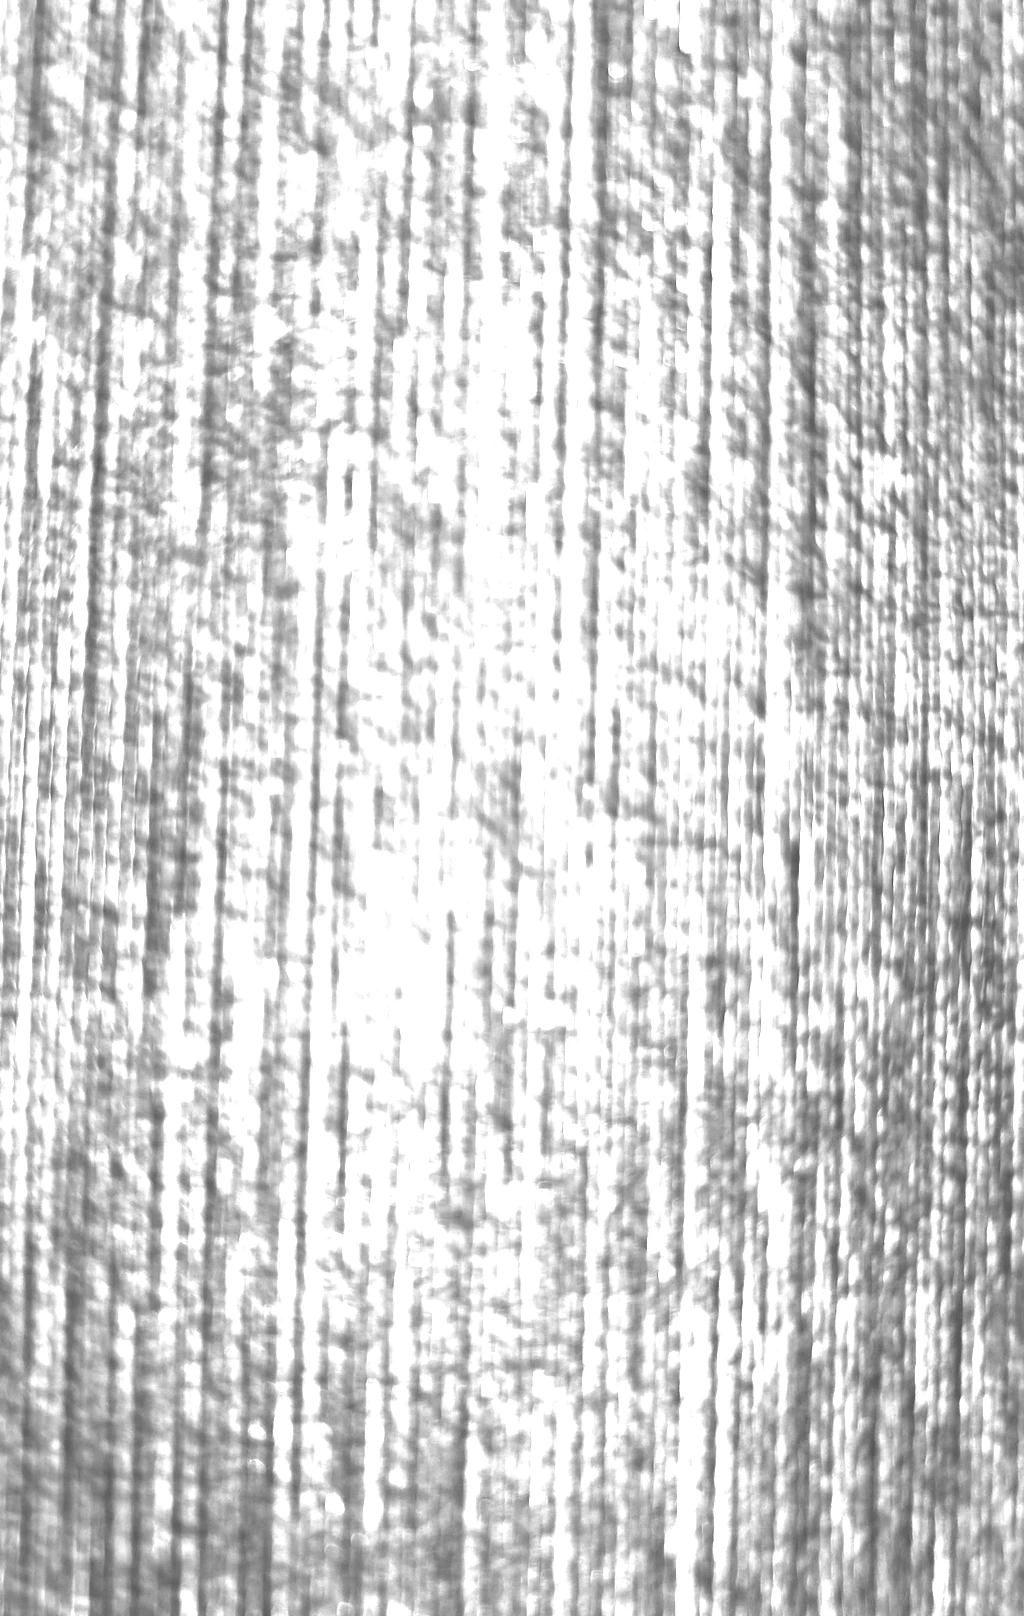
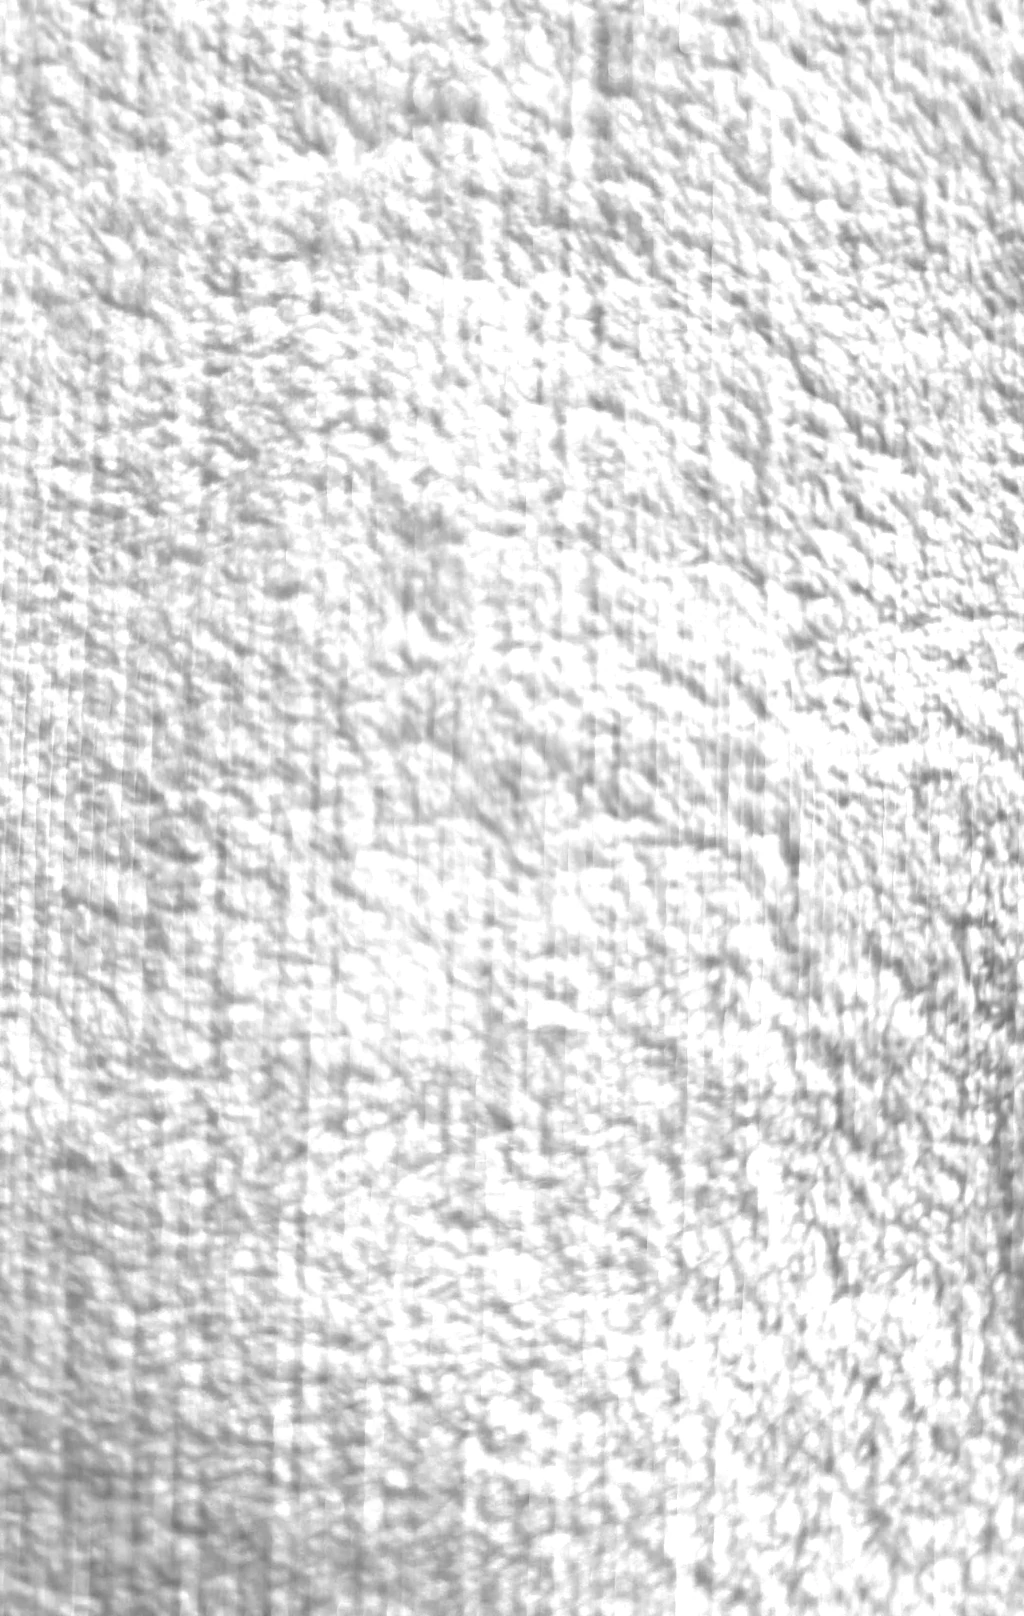
feat[3d]: book_1/book_2 텍스처 비율 조정 및 사서별 테마 색상 3D 서재 반영 (#98)

diff --git a/app/store/bookVisuals.js b/app/store/bookVisuals.js
@@ -9,17 +9,9 @@
  * 어디서 보든 같은 색/두께/높이로 안정적으로 렌더링되게 한다.
  */
 
-const STORAGE_KEY = 'myReadingRoom.bookVisuals';
+import { getColorPresets } from '../features/register/ocrUtils';
 
-// RegisterBook / ocrUtils와 동일한 색상 팔레트
-const COLOR_PRESETS = [
-  { spine: '#c96b32', cover: '#e8944a' },
-  { spine: '#8b4513', cover: '#b5651d' },
-  { spine: '#a0522d', cover: '#cd853f' },
-  { spine: '#d4763e', cover: '#f2a365' },
-  { spine: '#6b3a2a', cover: '#8c5a3c' },
-  { spine: '#bf7830', cover: '#e0a050' },
-];
+const STORAGE_KEY = 'myReadingRoom.bookVisuals';
 
 const THICKNESS_OPTIONS = [0.16, 0.22, 0.3];
 
@@ -51,10 +43,13 @@ function hashString(str) {
   return Math.abs(hash);
 }
 
-function deterministicVisual(bookId) {
+function deterministicVisual(bookId, librarianId = 'cat') {
   const h = hashString(bookId);
-  const preset = COLOR_PRESETS[h % COLOR_PRESETS.length];
+  const presets = getColorPresets(librarianId);
+  const colorIdx = h % presets.length;
+  const preset = presets[colorIdx];
   return {
+    colorIdx,
     spineColor: preset.spine,
     coverColor: preset.cover,
     thickness: THICKNESS_OPTIONS[h % THICKNESS_OPTIONS.length],
@@ -65,13 +60,14 @@ function deterministicVisual(bookId) {
 /**
  * bookId의 시각 정보를 반환. 저장된 값이 없으면 결정론적 기본값을 만들어 저장 후 반환.
  * @param {string|number} bookId
- * @returns {{spineColor: string, coverColor: string, thickness: number, heightFactor: number}}
+ * @param {string} [librarianId='cat']
+ * @returns {{colorIdx?: number, spineColor: string, coverColor: string, thickness: number, heightFactor: number}}
  */
-export function getVisual(bookId) {
+export function getVisual(bookId, librarianId = 'cat') {
   const key = String(bookId);
   const map = loadAll();
   if (map[key]) return map[key];
-  const visual = deterministicVisual(key);
+  const visual = deterministicVisual(key, librarianId);
   map[key] = visual;
   saveAll(map);
   return visual;
@@ -80,13 +76,14 @@ export function getVisual(bookId) {
 /**
  * 사용자가 고른 색/두께를 저장(등록 시 사용). heightFactor는 유지하거나 결정론적으로 생성.
  * @param {string|number} bookId
- * @param {{spineColor?: string, coverColor?: string, thickness?: number}} patch
+ * @param {{colorIdx?: number, spineColor?: string, coverColor?: string, thickness?: number}} patch
  */
-export function setVisual(bookId, { spineColor, coverColor, thickness } = {}) {
+export function setVisual(bookId, { colorIdx, spineColor, coverColor, thickness } = {}) {
   const key = String(bookId);
   const map = loadAll();
   const base = map[key] || deterministicVisual(key);
   map[key] = {
+    colorIdx: colorIdx !== undefined ? colorIdx : base.colorIdx,
     spineColor: spineColor ?? base.spineColor,
     coverColor: coverColor ?? base.coverColor,
     thickness: thickness ?? base.thickness,

diff --git a/app/features/room/LibraryScene.jsx b/app/features/room/LibraryScene.jsx
@@ -20,6 +20,8 @@ import {
   placeBooks,
   makePreviewBooks,
 } from './shelfLayout';
+import { getColorPresets } from '../register/ocrUtils';
+import { getColorIndex } from './bookExtractor';
 
 const isDev = import.meta.env.DEV;
 const CALIB_KEY_PREFIX = 'myReadingRoom.calibration';
@@ -374,7 +376,20 @@ export default function LibraryScene() {
 
   // 캘리브레이션 중이면 작업용 설정, 아니면 해당 사서의 배포용 기본 설정
   const activeConfig = calibrating ? workingConfig : { camera: getDefaultCamera(librarianId), shelves: getDefaultShelves(librarianId) };
-  const sourceBooks = calibrating ? makePreviewBooks(previewCount) : books;
+  const librarianPresets = useMemo(() => getColorPresets(librarianId), [librarianId]);
+  const rawSourceBooks = calibrating ? makePreviewBooks(previewCount, librarianId) : books;
+  const sourceBooks = useMemo(() => {
+    return rawSourceBooks.map((b) => {
+      const colorIdx = typeof b.colorIdx === 'number' ? b.colorIdx : getColorIndex(b.title || b.id || '');
+      const preset = librarianPresets[colorIdx % librarianPresets.length];
+      return {
+        ...b,
+        colorIdx,
+        spineColor: preset.spine,
+        coverColor: preset.cover,
+      };
+    });
+  }, [rawSourceBooks, librarianPresets]);
   const placements = useMemo(() => placeBooks(sourceBooks, activeConfig.shelves), [sourceBooks, activeConfig.shelves]);
   const { camera } = activeConfig;
   const activeShelf = workingConfig.shelves[activeIdx] || workingConfig.shelves[0];
@@ -813,7 +828,7 @@ export default function LibraryScene() {
           onSelectShelf={(idx) => setActiveMobileShelfIdx(idx)}
           onClose={() => setActiveMobileShelfIdx(null)}
           placements={placements}
-          allBooks={books}
+          allBooks={sourceBooks}
           onOpenBookDetail={(book) => setSelectedId(book.id || book.bookId)}
         />
       )}

diff --git a/app/features/room/shelfLayout.js b/app/features/room/shelfLayout.js
@@ -1,4 +1,5 @@
 import * as THREE from 'three';
+import { getColorPresets } from '../register/ocrUtils';
 
 // 배경 이미지 (public/room/) — CLIAR-180: 내 서재 UI 갱신, WebP로 변환(1920px, 16:9 비율 유지)
 export const BG_SRC_CAT = '/room/readingroom_cat.webp';
@@ -369,22 +370,15 @@ export function placeBooks(books, shelves = DEFAULT_SHELVES) {
   return placements;
 }
 
-// 캘리브레이션 미리보기용 더미 책 생성 (store에는 저장되지 않음)
-const previewPalette = [
-  { spine: '#7d4b3a', cover: '#a86a4c' },
-  { spine: '#2f4858', cover: '#3d6070' },
-  { spine: '#6b6b47', cover: '#8a8a5c' },
-  { spine: '#8c3b3b', cover: '#b25050' },
-  { spine: '#3a5a40', cover: '#588157' },
-  { spine: '#4a4058', cover: '#6d5f80' },
-];
-
-export function makePreviewBooks(count) {
+// 캘리브레이션 미리보기용 더미 책 생성 (사서별 테마 색상 적용, store에는 저장되지 않음)
+export function makePreviewBooks(count, librarianId = 'cat') {
+  const palette = getColorPresets(librarianId);
   return Array.from({ length: count }, (_, i) => {
-    const p = previewPalette[i % previewPalette.length];
+    const p = palette[i % palette.length];
     return {
       id: `preview-${i}`,
       title: `미리보기 ${i + 1}`,
+      colorIdx: i % palette.length,
       spineColor: p.spine,
       coverColor: p.cover,
       thickness: 0.16 + ((i * 7) % 5) * 0.03,

diff --git a/app/pages/RegisterBook.jsx b/app/pages/RegisterBook.jsx
@@ -475,7 +475,7 @@ export default function RegisterBook() {
           readingStatus,
         });
         // 색/두께는 서버가 저장하지 않는 시각 정보라 로컬에 따로 보관한다.
-        setVisual(bookId, { spineColor: color.spine, coverColor: color.cover, thickness });
+        setVisual(bookId, { colorIdx, spineColor: color.spine, coverColor: color.cover, thickness });
         await reload();
       } else {
         // 서버에 도서 생성 (색은 선택값, 두께는 총 페이지 수로 자동 계산 — provider가 로컬 bookVisuals에 저장)
@@ -486,6 +486,7 @@ export default function RegisterBook() {
           publisher: extraMeta.publisher,
           publishedDate: extraMeta.publishedDate,
           coverUrl: extraMeta.coverUrl,
+          colorIdx,
           spineColor: color.spine,
           coverColor: color.cover,
           thickness,

diff --git a/app/store/BooksProvider.jsx b/app/store/BooksProvider.jsx
@@ -28,6 +28,7 @@ function toFrontBook(summary) {
     status: bookApi.toKoreanStatus(summary.readingStatus, summary.progress ?? 0),
     coverUrl: summary.coverUrl ?? null,
     progress: summary.progress ?? 0,
+    colorIdx: visual.colorIdx,
     spineColor: visual.spineColor,
     coverColor: visual.coverColor,
     thickness: visual.thickness,
@@ -85,6 +86,7 @@ export function BooksProvider({ children }) {
       displayGenre: input.displayGenre || null,
     });
     setVisual(created.bookId, {
+      colorIdx: input.colorIdx,
       spineColor: input.spineColor,
       coverColor: input.coverColor,
       thickness: Number(input.thickness) || undefined,
